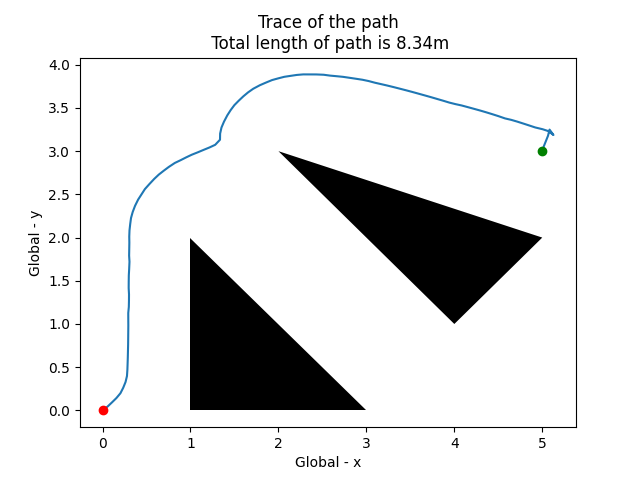
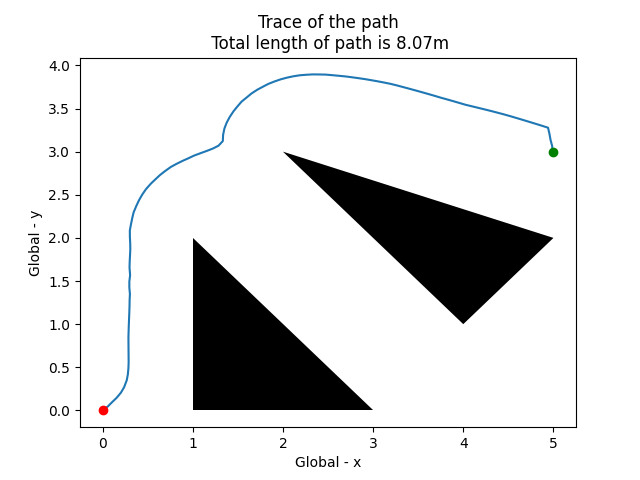
A2 works for 0 obstacles

diff --git a/assignment_2/potential_function_planner.py b/assignment_2/potential_function_planner.py
@@ -30,7 +30,8 @@ with open(inf, 'r') as f:
             P.append(temp)
 
         i += 1
-    obstacles.append(P)
+    if len(P) != 0:
+        obstacles.append(P)
     tolerance = stepsize*0.5
 
 
